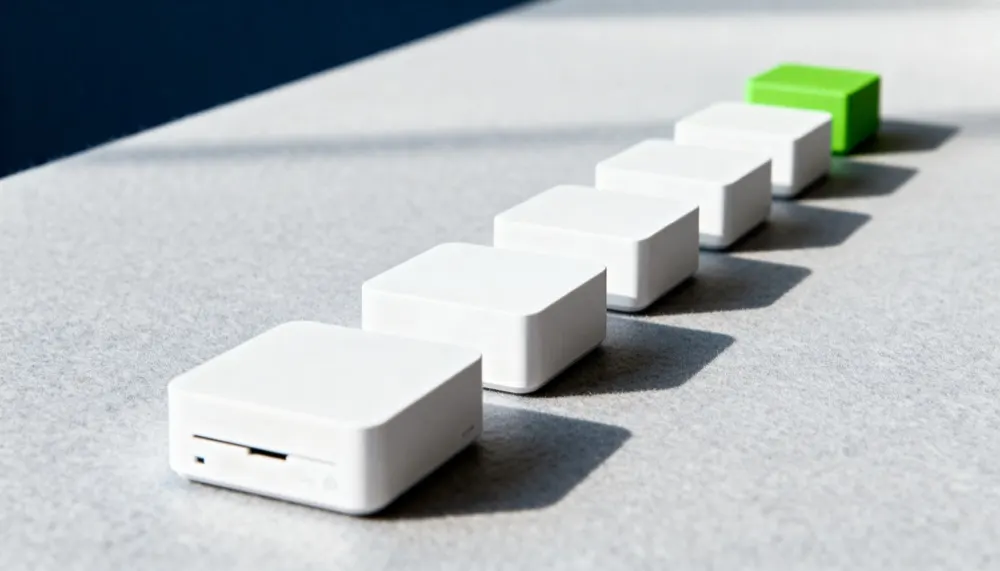
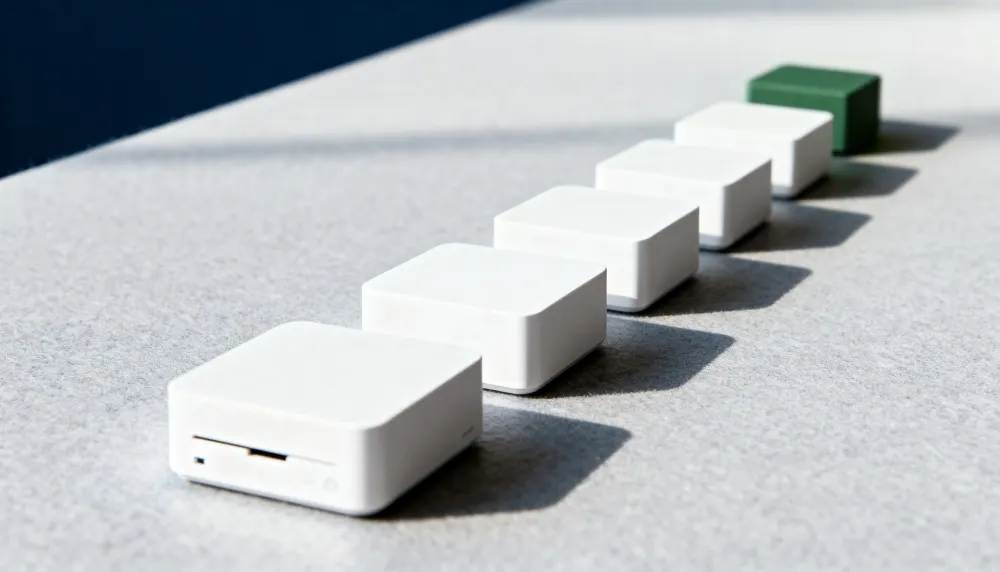
Publish 2026-11-16 (3): zoECON picture recoloured to muted forest green

Changed region(s): [[0.744, 0.0893, 0.899, 0.268]]

diff --git a/it_services.html b/it_services.html
@@ -487,7 +487,7 @@
         <!-- Left: headline + image -->
         <div>
           <h2 class="xf-headline reveal">Cut the cloud bill.<br>Keep the security.</h2>
-          <div class="xf-img-placeholder xf-img-zoecon reveal"><picture><source type="image/webp" srcset="images/it_pages_imgs/zoecon-hero-1000.webp 1000w, images/it_pages_imgs/zoecon-hero-2000.webp 2000w" sizes="(max-width: 991px) 100vw, 50vw"><img src="images/it_pages_imgs/zoecon-hero-1000.jpg" srcset="images/it_pages_imgs/zoecon-hero-1000.jpg 1000w, images/it_pages_imgs/zoecon-hero-2000.jpg 2000w" sizes="(max-width: 991px) 100vw, 50vw" alt="White matte blocks shaped like servers, getting lower in height, ending in one small green block" width="2000" height="1143" loading="lazy" decoding="async"></picture></div>
+          <div class="xf-img-placeholder xf-img-zoecon reveal"><picture><source type="image/webp" srcset="images/it_pages_imgs/zoecon-hero-1000.webp?v=7 1000w, images/it_pages_imgs/zoecon-hero-2000.webp?v=7 2000w" sizes="(max-width: 991px) 100vw, 50vw"><img src="images/it_pages_imgs/zoecon-hero-1000.jpg?v=7" srcset="images/it_pages_imgs/zoecon-hero-1000.jpg?v=7 1000w, images/it_pages_imgs/zoecon-hero-2000.jpg?v=7 2000w" sizes="(max-width: 991px) 100vw, 50vw" alt="White matte blocks shaped like servers, getting lower in height, ending in one small green block" width="2000" height="1143" loading="lazy" decoding="async"></picture></div>
         </div>
 
         <!-- Right: body + 2×2 features + CTA -->

diff --git a/zoecon_cloud_cost_optimizer.html b/zoecon_cloud_cost_optimizer.html
@@ -243,7 +243,7 @@
     </div>
     <div class="hero-img">
       <div class="zo-hero-fill hero-img-fill">
-        <picture><source type="image/webp" srcset="images/it_pages_imgs/zoecon-hero-1000.webp 1000w, images/it_pages_imgs/zoecon-hero-2000.webp 2000w" sizes="(max-width: 991px) 100vw, 50vw"><img src="images/it_pages_imgs/zoecon-hero-1000.jpg" srcset="images/it_pages_imgs/zoecon-hero-1000.jpg 1000w, images/it_pages_imgs/zoecon-hero-2000.jpg 2000w" sizes="(max-width: 991px) 100vw, 50vw" alt="Row of white blocks on a grey surface with green highlights" width="2000" height="1143" decoding="async"></picture>
+        <picture><source type="image/webp" srcset="images/it_pages_imgs/zoecon-hero-1000.webp?v=7 1000w, images/it_pages_imgs/zoecon-hero-2000.webp?v=7 2000w" sizes="(max-width: 991px) 100vw, 50vw"><img src="images/it_pages_imgs/zoecon-hero-1000.jpg?v=7" srcset="images/it_pages_imgs/zoecon-hero-1000.jpg?v=7 1000w, images/it_pages_imgs/zoecon-hero-2000.jpg?v=7 2000w" sizes="(max-width: 991px) 100vw, 50vw" alt="Row of white blocks on a grey surface with green highlights" width="2000" height="1143" decoding="async"></picture>
       </div>
     </div>
   </section>
